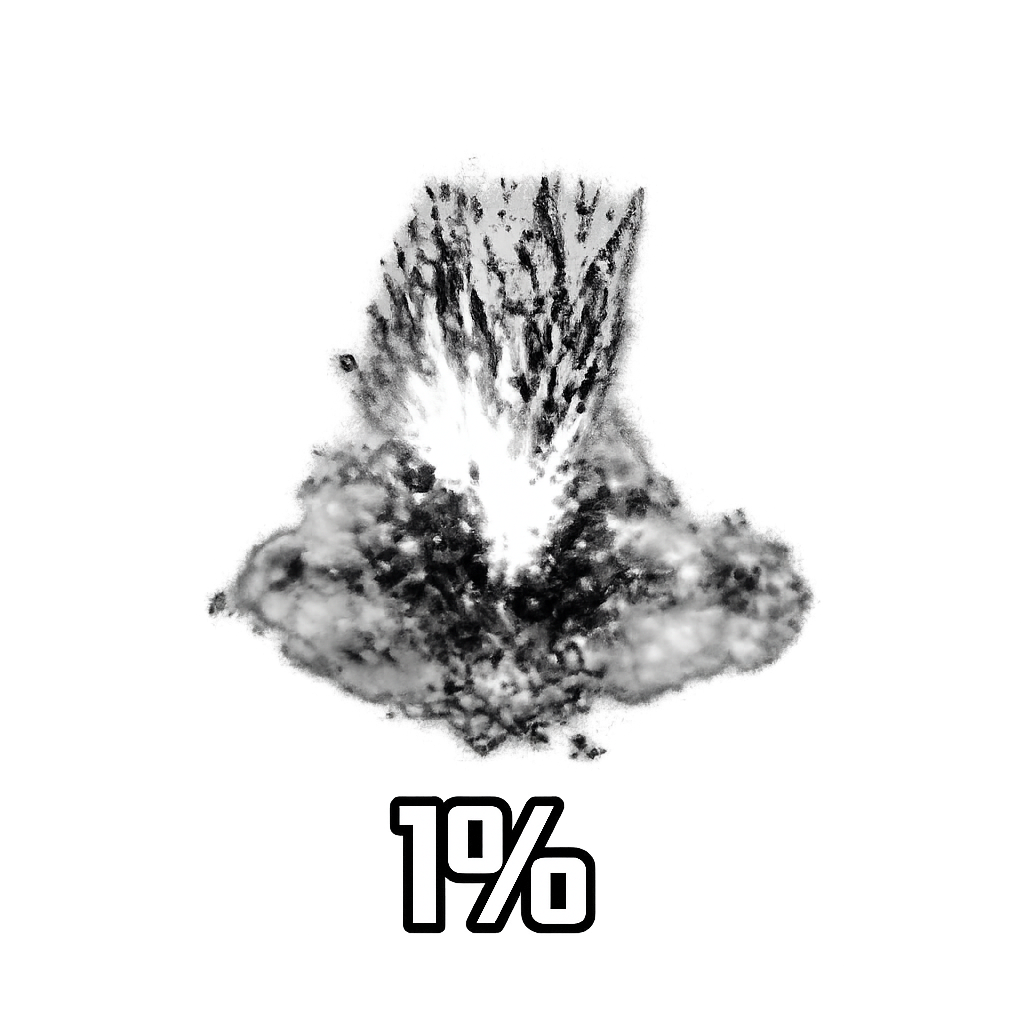
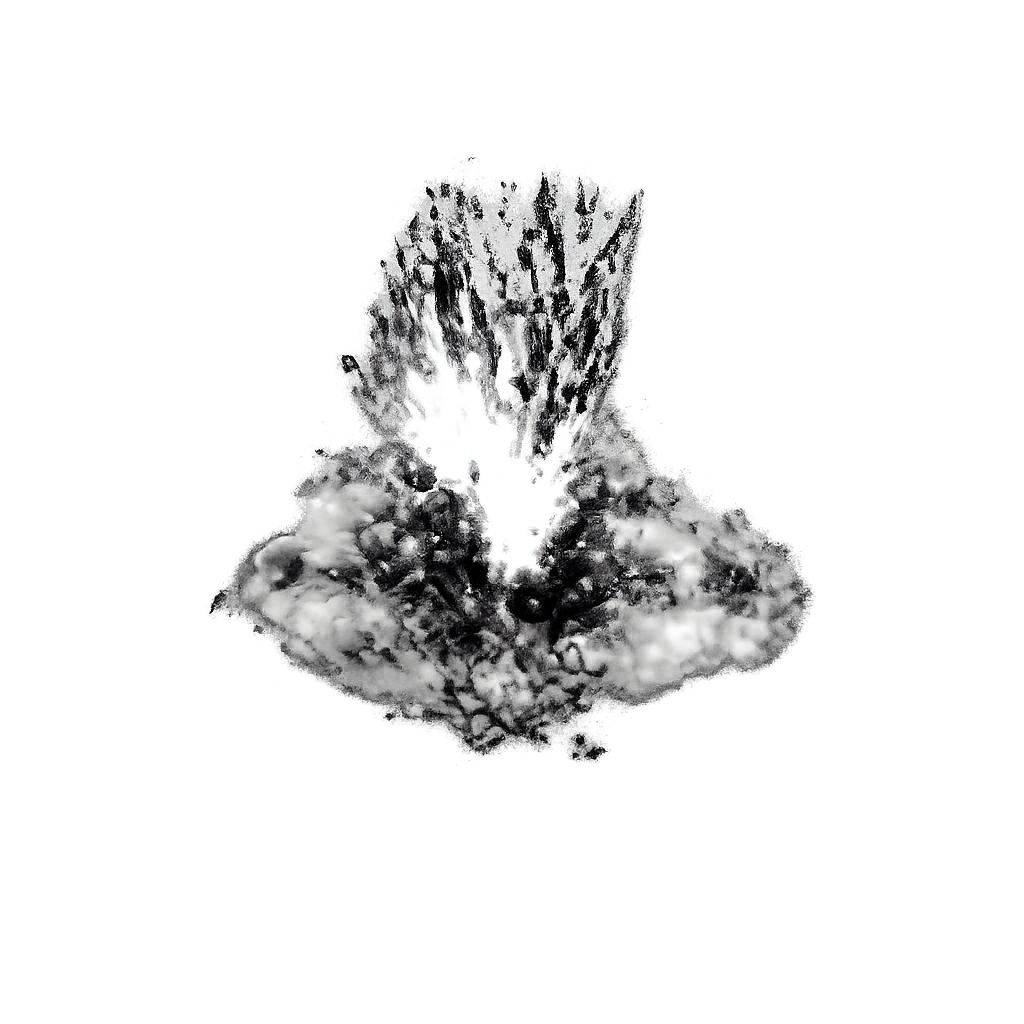
Add files via upload

Changed region(s): [[0.1875, 0.1562, 0.8125, 0.9375], [0.6562, 0.6562, 0.6875, 0.6875]]

diff --git a/styles.css b/styles.css
@@ -45,22 +45,22 @@ body::-webkit-scrollbar {
     display: flex;
     align-items: center;
     justify-content: space-between;
-    padding: 1rem 2.5rem;
+    padding: 0.55rem 2rem;
     background: #0d111a;
     border-bottom: 1px solid var(--border-color);
     position: sticky;
     top: 0;
     z-index: 100;
-    box-shadow: 0 2px 10px rgba(0, 0, 0, 0.3);
+    box-shadow: 0 1px 5px rgba(0, 0, 0, 0.2);
     will-change: transform;
 }
 
 .logo {
     font-weight: 800;
-    font-size: 1.8rem;
-    letter-spacing: 1.5px;
+    font-size: 1.15rem;
+    letter-spacing: 1px;
     display: flex;
-    gap: 0.5rem;
+    gap: 0.35rem;
 }
 
 .logo span:first-child {
@@ -69,10 +69,10 @@ body::-webkit-scrollbar {
 
 .nav-links {
     display: flex;
-    gap: 0.5rem;
-    background: rgba(255, 255, 255, 0.03);
-    padding: 0.4rem;
-    border-radius: 12px;
+    gap: 0.3rem;
+    background: rgba(255, 255, 255, 0.02);
+    padding: 0.25rem;
+    border-radius: 8px;
     border: 1px solid var(--border-color);
 }
 
@@ -81,12 +81,12 @@ body::-webkit-scrollbar {
     border: none;
     color: var(--text-secondary);
     font-family: var(--font-family);
-    font-size: 0.95rem;
+    font-size: 0.8rem;
     font-weight: 600;
     cursor: pointer;
-    padding: 0.6rem 1.5rem;
-    border-radius: 8px;
-    transition: color 0.2s ease, background 0.2s ease, box-shadow 0.2s ease, transform 0.15s ease;
+    padding: 0.35rem 0.9rem;
+    border-radius: 6px;
+    transition: color 0.15s ease, background 0.15s ease, transform 0.15s ease;
     will-change: transform;
 }
 
@@ -98,7 +98,7 @@ body::-webkit-scrollbar {
 .nav-btn.active {
     color: #FFF;
     background: var(--primary-color);
-    box-shadow: 0 4px 12px rgba(37, 99, 235, 0.3);
+    box-shadow: 0 2px 6px rgba(37, 99, 235, 0.2);
 }
 
 /* ─── Layout ─────────────────────────────────────────── */
@@ -131,45 +131,44 @@ body::-webkit-scrollbar {
     display: flex;
     flex-wrap: wrap;
     justify-content: center;
-    gap: 0.8rem;
-    margin-bottom: 2.5rem;
+    gap: 0.5rem;
+    margin-bottom: 2rem;
     animation: fadeInUp 0.5s 0.1s cubic-bezier(0.22, 1, 0.36, 1) both;
 }
 
 .category-chip {
-    background: rgba(255, 255, 255, 0.04);
+    background: rgba(255, 255, 255, 0.03);
     color: var(--text-secondary);
-    border: 1px solid rgba(255, 255, 255, 0.1);
-    padding: 0.75rem 1.6rem;
-    border-radius: 8px;
+    border: 1px solid rgba(255, 255, 255, 0.08);
+    padding: 0.35rem 0.9rem;
+    border-radius: 6px;
     cursor: pointer;
     font-family: var(--font-family);
-    font-size: 0.95rem;
+    font-size: 0.78rem;
     font-weight: 600;
-    letter-spacing: 0.4px;
-    transition: color 0.2s ease, background 0.2s ease, transform 0.2s cubic-bezier(0.22, 1, 0.36, 1), box-shadow 0.2s ease;
+    letter-spacing: 0.2px;
+    transition: color 0.15s ease, background 0.15s ease, transform 0.15s ease;
     will-change: transform;
 }
 
 .category-chip:hover {
-    background: rgba(59, 130, 246, 0.12);
+    background: rgba(59, 130, 246, 0.1);
     color: var(--text-primary);
-    transform: translateY(-4px) scale(1.04);
-    box-shadow: 0 8px 22px rgba(0, 0, 0, 0.35);
+    transform: translateY(-1px);
 }
 
 .category-chip.active {
     background: var(--primary-color);
     color: white;
     border-color: var(--primary-color);
-    box-shadow: 0 4px 12px rgba(0, 0, 0, 0.2);
-    transform: translateY(-2px);
+    box-shadow: 0 2px 6px rgba(0, 0, 0, 0.15);
+    transform: translateY(-1px);
 }
 
 /* ─── Search ─────────────────────────────────────────── */
 .search-container {
-    max-width: 600px;
-    margin: 0 auto 3rem auto;
+    max-width: 440px;
+    margin: 0 auto 2rem auto;
     animation: fadeInUp 0.5s 0.15s cubic-bezier(0.22, 1, 0.36, 1) both;
 }
 
@@ -178,9 +177,9 @@ body::-webkit-scrollbar {
     background: var(--card-bg);
     border: 1px solid var(--border-color);
     color: var(--text-primary);
-    padding: 1.2rem 1.5rem;
-    border-radius: 16px;
-    font-size: 1.05rem;
+    padding: 0.5rem 0.9rem;
+    border-radius: 8px;
+    font-size: 0.85rem;
     font-family: var(--font-family);
     transition: border-color 0.2s ease, box-shadow 0.2s ease;
     -webkit-user-select: text;
@@ -317,9 +316,6 @@ body::-webkit-scrollbar {
     backdrop-filter: blur(12px);
     -webkit-backdrop-filter: blur(12px);
 }
-
-.calc-side.your-side  { border-top: 3px solid var(--primary-color); }
-.calc-side.their-side { border-top: 3px solid var(--loss-color); }
 
 .calc-side-header {
     display: flex;
@@ -570,7 +566,7 @@ body::-webkit-scrollbar {
 }
 
 .modal-header {
-    padding: 1.5rem 1.8rem;
+    padding: 1rem 1.2rem;
     border-bottom: 1px solid rgba(255,255,255,0.05);
 }
 
@@ -579,9 +575,9 @@ body::-webkit-scrollbar {
     background: rgba(255,255,255,0.04);
     border: 1px solid rgba(255,255,255,0.1);
     color: white;
-    padding: 1rem 1.2rem;
-    border-radius: 12px;
-    font-size: 1.05rem;
+    padding: 0.55rem 0.9rem;
+    border-radius: 8px;
+    font-size: 0.85rem;
     font-family: var(--font-family);
     transition: border-color 0.2s ease, box-shadow 0.2s ease;
     -webkit-user-select: text;